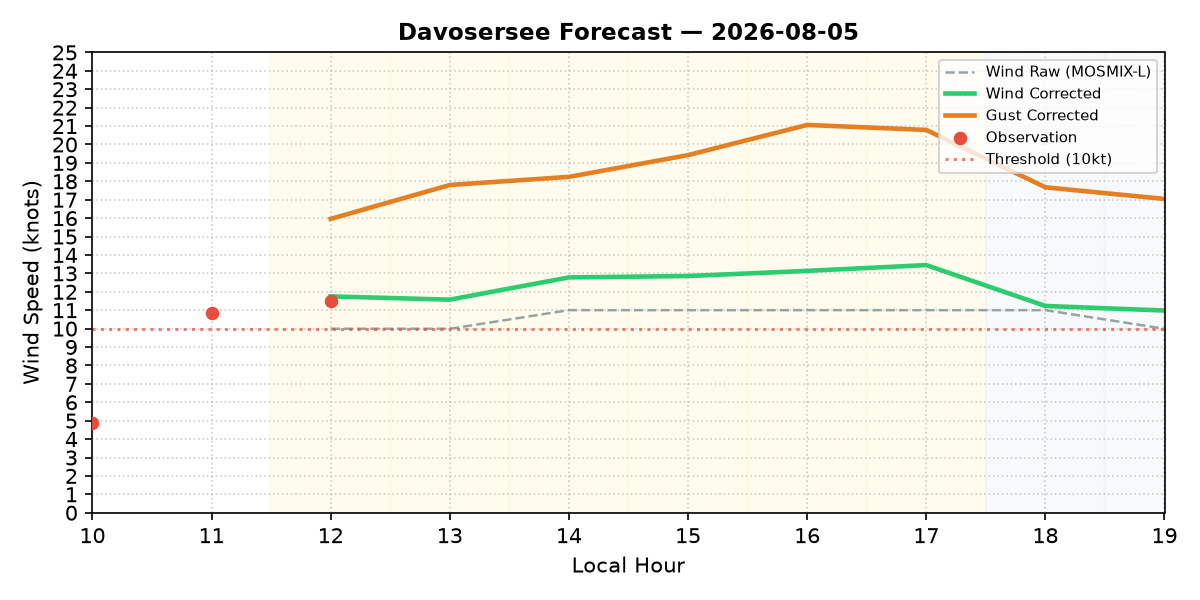
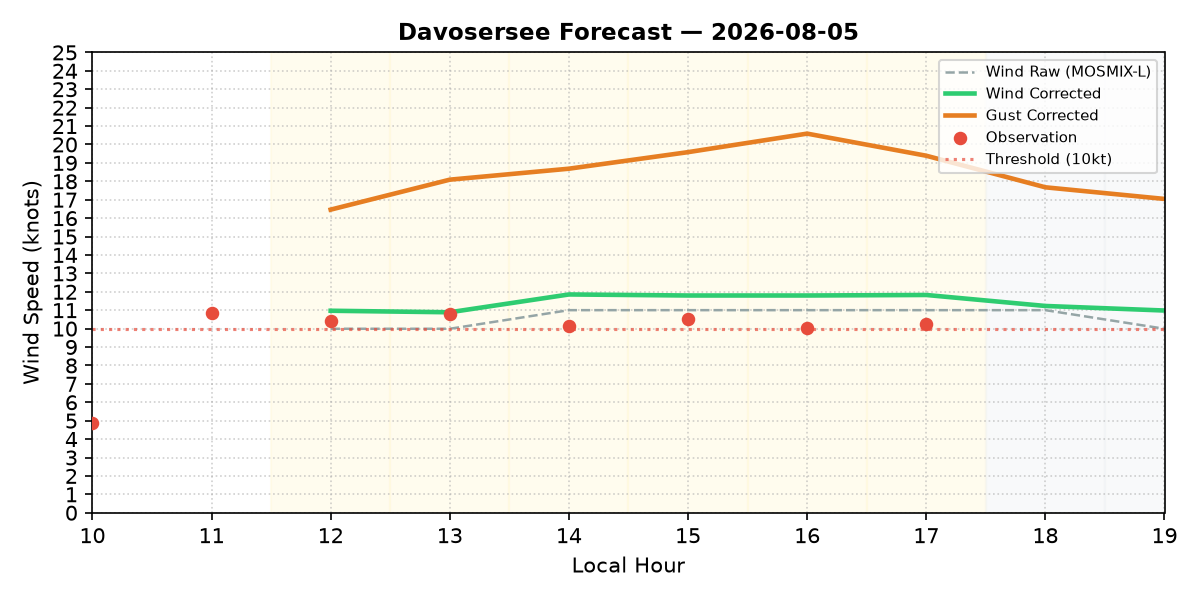
Automated hourly HTML update

diff --git a/index.html b/index.html
@@ -24,7 +24,7 @@
     <div class="header">
         <h1>🏄 Davosersee Wind Forecast by Camille, DWD MOSMIX-L data with corrections</h1>
         <h1>-- experimental, at your own risk, no guarantees! --</h1>
-        <div class="version">Generated: v2.5-json (2026-08-05 10:41:29 UTC)</div>
+        <div class="version">Generated: v2.5-json (2026-08-05 15:14:05 UTC)</div>
     </div>
 
     <div class="day-card">
@@ -53,8 +53,8 @@
                 <tr>
                     <td>12:00</td>
                     <td>10.0</td>
-                    <td><b>11.8</b></td>
-                    <td>16.0</td>
+                    <td><b>11.0</b></td>
+                    <td>16.5</td>
                     <td>NNE (27°)</td>
                     <td>24.4</td>
                     <td>15%</td>
@@ -65,8 +65,8 @@
                 <tr>
                     <td>13:00</td>
                     <td>10.0</td>
-                    <td><b>11.6</b></td>
-                    <td>17.8</td>
+                    <td><b>10.9</b></td>
+                    <td>18.1</td>
                     <td>NNE (30°)</td>
                     <td>24.6</td>
                     <td>13%</td>
@@ -77,8 +77,8 @@
                 <tr>
                     <td>14:00</td>
                     <td>11.0</td>
-                    <td><b>12.8</b></td>
-                    <td>18.2</td>
+                    <td><b>11.9</b></td>
+                    <td>18.7</td>
                     <td>NNE (28°)</td>
                     <td>24.7</td>
                     <td>12%</td>
@@ -89,8 +89,8 @@
                 <tr>
                     <td>15:00</td>
                     <td>11.0</td>
-                    <td><b>12.9</b></td>
-                    <td>19.4</td>
+                    <td><b>11.8</b></td>
+                    <td>19.6</td>
                     <td>NNE (30°)</td>
                     <td>24.5</td>
                     <td>14%</td>
@@ -101,8 +101,8 @@
                 <tr>
                     <td>16:00</td>
                     <td>11.0</td>
-                    <td><b>13.1</b></td>
-                    <td>21.1</td>
+                    <td><b>11.8</b></td>
+                    <td>20.6</td>
                     <td>NNE (30°)</td>
                     <td>23.8</td>
                     <td>22%</td>
@@ -113,8 +113,8 @@
                 <tr>
                     <td>17:00</td>
                     <td>11.0</td>
-                    <td><b>13.4</b></td>
-                    <td>20.8</td>
+                    <td><b>11.8</b></td>
+                    <td>19.4</td>
                     <td>NNE (29°)</td>
                     <td>23.0</td>
                     <td>31%</td>
@@ -187,8 +187,8 @@
                 <tr>
                     <td>11:00</td>
                     <td>8.0</td>
-                    <td><b>7.9</b></td>
-                    <td>14.3</td>
+                    <td><b>8.0</b></td>
+                    <td>14.4</td>
                     <td>NNE (22°)</td>
                     <td>18.1</td>
                     <td>67%</td>
@@ -200,7 +200,7 @@
                     <td>12:00</td>
                     <td>10.0</td>
                     <td><b>9.9</b></td>
-                    <td>16.3</td>
+                    <td>16.4</td>
                     <td>NNE (25°)</td>
                     <td>18.6</td>
                     <td>67%</td>
@@ -271,8 +271,8 @@
                 <tr>
                     <td>18:00</td>
                     <td>9.0</td>
-                    <td><b>8.9</b></td>
-                    <td>17.3</td>
+                    <td><b>9.0</b></td>
+                    <td>17.4</td>
                     <td>NNE (33°)</td>
                     <td>16.8</td>
                     <td>69%</td>
@@ -283,8 +283,8 @@
                 <tr>
                     <td>19:00</td>
                     <td>9.0</td>
-                    <td><b>8.9</b></td>
-                    <td>17.3</td>
+                    <td><b>9.0</b></td>
+                    <td>17.4</td>
                     <td>NNE (29°)</td>
                     <td>15.9</td>
                     <td>74%</td>
